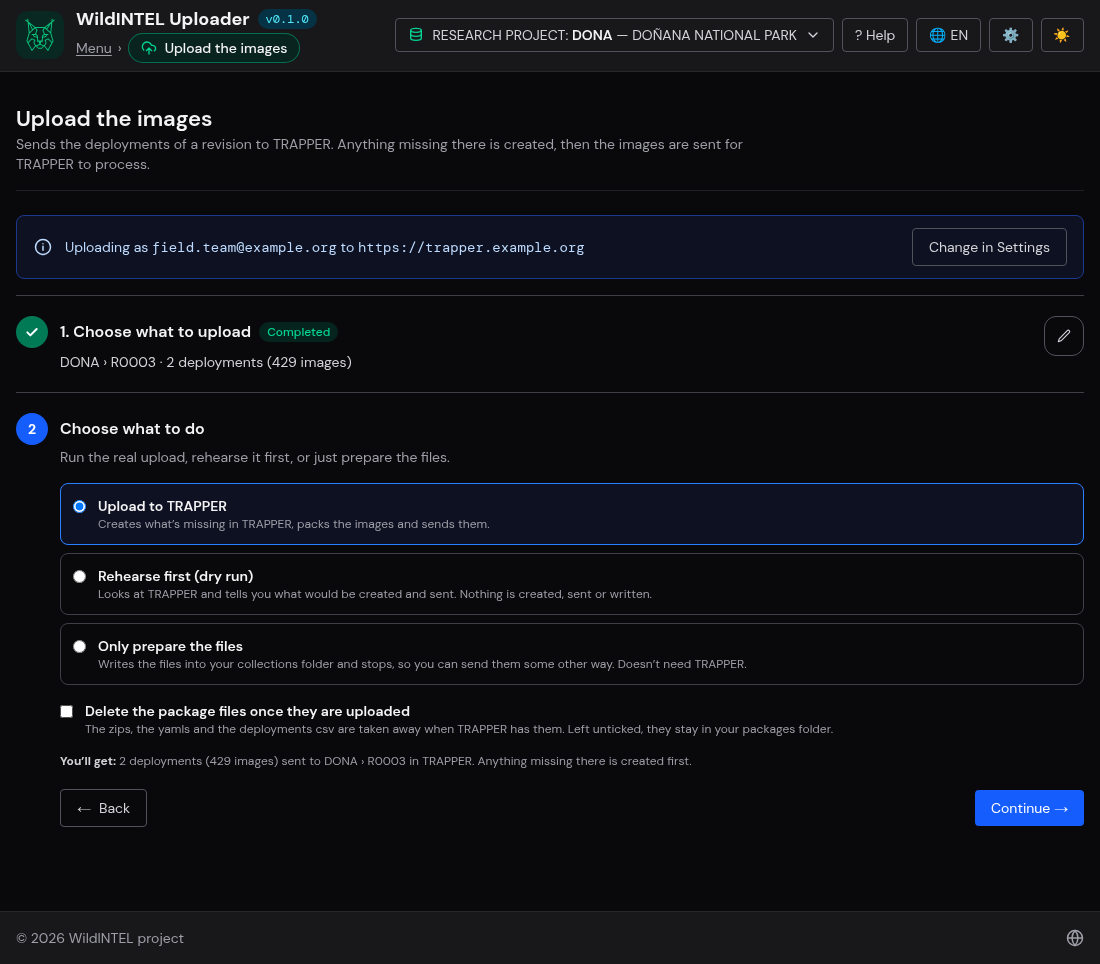
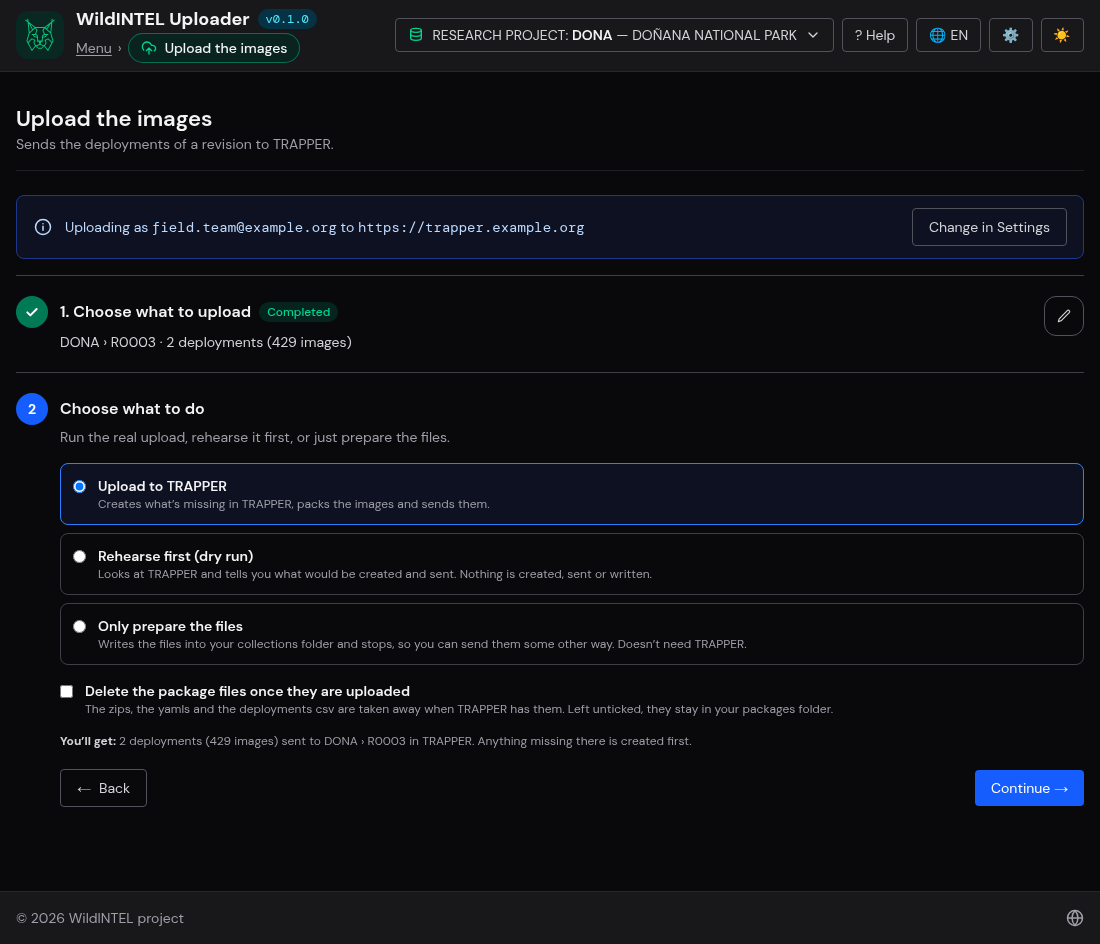
The subtitles of the longest screens and steps are one short sentence that says what the step does, and what they said besides goes to the hint of the field

diff --git a/frontend/src/pages/SetupWizardPage.tsx b/frontend/src/pages/SetupWizardPage.tsx
@@ -272,7 +272,7 @@ export default function SetupWizardPage({ onBack, onMainMenu, onRegisterVisit }:
     <div className={PAGE_CLASS}>
       <datalist id="setup-zones">{ZONES.map((z) => <option key={z} value={z} />)}</datalist>
       <PageHeader icon={UTIL_ICONS.setup} title="Initial setup" parent="Utilities" onParent={onBack}
-        description="Set up a research project and say where WildINTEL Uploader keeps what it makes. The trappers, roles, locations, cameras and SD cards are optional: they can be created later, from the field files or in Settings." />
+        description="Create your first research project and choose where your data is kept. The rest is optional." />
 
       <WizardStep n={1} title="The research project" required status={status(1)} canEdit={canEdit} sealed={step === 9} onEdit={() => edit(1)}
                   summary={<><span className="font-mono">{code}</span> — {name.trim()}</>} description="A short acronym (it also names its folder, for example DONA_24) and its full name. Everything else can be filled in later in Settings › Entities.">
@@ -300,7 +300,7 @@ export default function SetupWizardPage({ onBack, onMainMenu, onRegisterVisit }:
 
       {folderStep && (
       <WizardStep n={2} title="The data folder" required status={status(2)} canEdit={canEdit} sealed={step === 9} onEdit={() => edit(2)}
-                  summary={<span className="font-mono">{chosenDir}</span>} description="Where WildINTEL Uploader keeps everything it makes: the collections, the reports and the packages. You can keep the one it has, or choose another, for example on another disk.">
+                  summary={<span className="font-mono">{chosenDir}</span>} description="Where WildINTEL Uploader keeps what it makes. Keep the proposed folder or choose another.">
         {step === 2 && (
           <div className="space-y-3">
             <label className={labelClass} htmlFor="setup-data-dir">Data folder</label>
@@ -322,7 +322,7 @@ export default function SetupWizardPage({ onBack, onMainMenu, onRegisterVisit }:
       </WizardStep>
       )}
 
-      <WizardStep n={num(3)} title="The trappers" optional="Optional · From visits CSV or Settings" status={status(3)} skipped={trappers.length === 0} canEdit={canEdit} sealed={step === 9} onEdit={() => edit(3)} summary={summary(trappers.map((t) => t.name), 'trappers')} description="The trappers who go to the field. Add them now, load them from a CSV, or skip this step: they are created from the field files when the visits are loaded. If you add them here, write their full names exactly as the field files do.">
+      <WizardStep n={num(3)} title="The trappers" optional="Optional · From visits CSV or Settings" status={status(3)} skipped={trappers.length === 0} canEdit={canEdit} sealed={step === 9} onEdit={() => edit(3)} summary={summary(trappers.map((t) => t.name), 'trappers')} description="The trappers who go to the field, written as in the field files. Add them now, or skip: they are created when you load the visits.">
         {step === 3 && (
           <AddList noun="trapper" added={chips(trappers, (t) => t.name)} onRemove={(k) => setTrappers((l) => l.filter((t) => t.name !== k))} onContinue={next} onSkip={next}
             fields={[{ name: 'username', label: 'Username', required: true, hint: 'Short, with no spaces, for example ana.perez. It is how WildINTEL Uploader and TRAPPER know the trapper.' }, { name: 'name', label: 'Full name', required: true, hint: 'As it is written in the field form, for example Ana Pérez.' }, { name: 'affiliation', label: 'Affiliation' }, { name: 'email', label: 'Email' }]}
@@ -346,10 +346,10 @@ export default function SetupWizardPage({ onBack, onMainMenu, onRegisterVisit }:
           ))}
       </WizardStep>
 
-      <WizardStep n={num(5)} title="The locations" optional="Optional · From visits CSV or Settings" status={status(5)} skipped={sites.length === 0} canEdit={canEdit} sealed={step === 9} onEdit={() => edit(5)} summary={summary(sites.map((x) => x.id), 'sites')} description="The places where the cameras are put up: an id, the coordinates and the timezone. Skip this step if they come from TRAPPER or from the field files. If you add them here, write their ids exactly as the field files do (DONA_0012), or they will be taken as new ones.">
+      <WizardStep n={num(5)} title="The locations" optional="Optional · From visits CSV or Settings" status={status(5)} skipped={sites.length === 0} canEdit={canEdit} sealed={step === 9} onEdit={() => edit(5)} summary={summary(sites.map((x) => x.id), 'sites')} description="The places where the cameras are put up, with the ids of the field files. Add them now, or skip: they come from TRAPPER or are created when you load the visits.">
         {step === 5 && (
           <AddList noun="location" added={chips(sites, (x) => x.id)} onRemove={(k) => setSites((l) => l.filter((x) => x.id !== k))} onContinue={next} onSkip={next}
-            fields={[{ name: 'id', label: 'Location id', required: true }, { name: 'name', label: 'Name' }, { name: 'latitude', label: 'Latitude', required: true, type: 'number', hint: 'Decimal degrees, −90 to 90.' }, { name: 'longitude', label: 'Longitude', required: true, type: 'number', hint: 'Decimal degrees, −180 to 180.' }, { name: 'timezone', label: 'Timezone', type: 'zone', initial: 'UTC', required: true }, { name: 'ignore_dst', label: 'The cameras here ignore summer time', type: 'check', hint: 'On if the camera clocks are not changed in summer.', off: (v) => (isUtcZone(v.timezone) ? 'Summer time is not applied in UTC.' : null) }]}
+            fields={[{ name: 'id', label: 'Location id', required: true, hint: 'As the field files write it, for example DONA_0012: any other is taken as a new location.' }, { name: 'name', label: 'Name' }, { name: 'latitude', label: 'Latitude', required: true, type: 'number', hint: 'Decimal degrees, −90 to 90.' }, { name: 'longitude', label: 'Longitude', required: true, type: 'number', hint: 'Decimal degrees, −180 to 180.' }, { name: 'timezone', label: 'Timezone', type: 'zone', initial: 'UTC', required: true }, { name: 'ignore_dst', label: 'The cameras here ignore summer time', type: 'check', hint: 'On if the camera clocks are not changed in summer.', off: (v) => (isUtcZone(v.timezone) ? 'Summer time is not applied in UTC.' : null) }]}
             onAdd={(v) => {
               const latitude = Number(v.latitude), longitude = Number(v.longitude)
               if (!(latitude >= -90 && latitude <= 90) || !(longitude >= -180 && longitude <= 180)) throw new Error('The coordinates must lie within −90 to 90 and −180 to 180.')
@@ -359,10 +359,10 @@ export default function SetupWizardPage({ onBack, onMainMenu, onRegisterVisit }:
         )}
       </WizardStep>
 
-      <WizardStep n={num(6)} title="The cameras" optional="Optional · From visits CSV or Settings" status={status(6)} skipped={cameras.length === 0} canEdit={canEdit} sealed={step === 9} onEdit={() => edit(6)} summary={summary(cameras.map((c) => c.label), 'cameras')} description="Each camera by the name it has in the field, with its serial number and model if you know them. Skip this step to create them from the field files. If you add them here, write their names exactly as the field files do.">
+      <WizardStep n={num(6)} title="The cameras" optional="Optional · From visits CSV or Settings" status={status(6)} skipped={cameras.length === 0} canEdit={canEdit} sealed={step === 9} onEdit={() => edit(6)} summary={summary(cameras.map((c) => c.label), 'cameras')} description="The cameras, with the names they have in the field. Add them now, or skip: they are created when you load the visits.">
         {step === 6 && (
           <AddList noun="camera" added={chips(cameras, (c) => c.label)} onRemove={(k) => setCameras((l) => l.filter((c) => c.label !== k))} onContinue={next} onSkip={next}
-            fields={[{ name: 'label', label: 'Label', required: true }, { name: 'camera_id', label: 'Serial number' }, { name: 'camera_model', label: 'Model' }]}
+            fields={[{ name: 'label', label: 'Label', required: true, hint: 'As the field files write it.' }, { name: 'camera_id', label: 'Serial number' }, { name: 'camera_model', label: 'Model' }]}
             onAdd={(v) => {
               if (cameras.some((c) => lower(c.label) === lower(v.label))) throw new Error(`There is a camera called ${v.label.trim()} already.`)
               setCameras((l) => [...l, { label: v.label.trim(), a: v.camera_id.trim(), b: v.camera_model.trim() }])
@@ -370,10 +370,10 @@ export default function SetupWizardPage({ onBack, onMainMenu, onRegisterVisit }:
         )}
       </WizardStep>
 
-      <WizardStep n={num(7)} title="The SD cards" optional="Optional · From visits CSV or Settings" status={status(7)} skipped={cards.length === 0} canEdit={canEdit} sealed={step === 9} onEdit={() => edit(7)} summary={summary(cards.map((c) => c.label), 'SD cards')} description="Each card by the name written on it (7, 7b, 10B). Brand and capacity are optional. Skip this step to create them from the field files. If you add them here, write their names exactly as the field files do: 7b and 7B are two cards.">
+      <WizardStep n={num(7)} title="The SD cards" optional="Optional · From visits CSV or Settings" status={status(7)} skipped={cards.length === 0} canEdit={canEdit} sealed={step === 9} onEdit={() => edit(7)} summary={summary(cards.map((c) => c.label), 'SD cards')} description="The SD cards, with the name written on each. Add them now, or skip: they are created when you load the visits.">
         {step === 7 && (
           <AddList noun="SD card" added={chips(cards, (c) => c.label)} onRemove={(k) => setCards((l) => l.filter((c) => c.label !== k))} onContinue={next} continueLabel="Review" onSkip={next}
-            fields={[{ name: 'label', label: 'Label', required: true }, { name: 'brand', label: 'Brand' }, { name: 'capacity', label: 'Capacity', hint: 'For example 64 GB.' }]}
+            fields={[{ name: 'label', label: 'Label', required: true, hint: 'As it is written on the card, for example 7b: 7b and 7B are two cards.' }, { name: 'brand', label: 'Brand' }, { name: 'capacity', label: 'Capacity', hint: 'For example 64 GB.' }]}
             onAdd={(v) => {
               if (cards.some((c) => lower(c.label) === lower(v.label))) throw new Error(`There is an SD card called ${v.label.trim()} already.`)
               setCards((l) => [...l, { label: v.label.trim(), a: v.brand.trim(), b: v.capacity.trim() }])

diff --git a/frontend/src/pages/SettingsPage.tsx b/frontend/src/pages/SettingsPage.tsx
@@ -2431,7 +2431,7 @@ export default function SettingsPage({ onClose, initialSection, initialProject, 
                 })}
               </div>
             </GroupCard>
-            <GroupCard title="Default research project" description="Filled in for you whenever a research project is asked for, such as when a visit is registered or a deployment imported. You can still change it each time.">
+            <GroupCard title="Default research project" description="Filled in whenever a research project is asked for. You can change it each time.">
               <label className="sr-only" htmlFor="default-research-project">Default research project</label>
               <Combobox
                 id="default-research-project" value={draft.defaultResearchProject} onChange={(v) => set('defaultResearchProject', v)}
@@ -2440,7 +2440,7 @@ export default function SettingsPage({ onClose, initialSection, initialProject, 
               />
             </GroupCard>
             <ToggleCard title="Welcome page" checked={draft.showWelcome} onChange={(v) => set('showWelcome', v)}
-                        description="Shown when WildINTEL Uploader opens, to say what it does. Turn it off to open straight on the menu — the tick of the welcome page does the same." />
+                        description="Shown when WildINTEL Uploader opens. Turn it off to open on the menu." />
             <GroupCard title="Parallel work" description="How many images are checked or prepared at the same time. More at once finishes sooner, up to what this computer can do.">
               <div className="max-w-xs"><NumberBox label="Images at once" value={draft.workers} limits={WORKERS} onChange={(v) => set('workers', v)} unit="at once" /></div>
               <p className={hintClass}>
@@ -2448,7 +2448,7 @@ export default function SettingsPage({ onClose, initialSection, initialProject, 
                 with a hard disk or a network drive, more may not help, as the files are read slower than they are worked on.
               </p>
             </GroupCard>
-            <GroupCard title="Activity log" description="WildINTEL Uploader writes down what it does, so a problem can be tracked down. Raise the detail only while you look for one, then lower it again. It applies right away.">
+            <GroupCard title="Activity log" description="Writes down what WildINTEL Uploader does, to find problems. It applies right away.">
               <div role="radiogroup" aria-label="Level" className="grid grid-cols-1 sm:grid-cols-2 gap-3">
                 {LOG_LEVELS.map((l) => (
                   <button key={l.value} type="button" role="radio" aria-checked={draft.logLevel === l.value} onClick={() => set('logLevel', l.value)}
@@ -2560,7 +2560,7 @@ export default function SettingsPage({ onClose, initialSection, initialProject, 
                 )}
               </div>
             </CardBlock>
-            <CardBlock title="Uploading deployments" description="The images of a deployment are sent in several packages, none bigger than this. Smaller packages are quicker to retry if the connection drops.">
+            <CardBlock title="Uploading deployments" description="Packages of at most this size. Smaller ones are quicker to retry if the connection drops.">
               <div className="max-w-60"><PlainField label="Largest package"><NumberBox label="Largest package" value={draft.maxZipMb} limits={MAX_ZIP_MB} onChange={(v) => set('maxZipMb', v)} unit="MB" /></PlainField></div>
             </CardBlock>
           </SettingsCard>
@@ -2635,7 +2635,7 @@ export default function SettingsPage({ onClose, initialSection, initialProject, 
             {visitSource === 'epicollect' && (
               <div className="space-y-5">
               <ToggleCard title="Use the Epicollect5 connection" checked={draft.epicollectEnabled} onChange={(v) => set('epicollectEnabled', v)}
-                              description="Lets WildINTEL Uploader download the entries of an Epicollect5 project by itself, instead of you downloading the CSV (in Register the visits › Custom CSV), and read the details of a deployment when it is imported." />
+                              description="Downloads the entries of an Epicollect5 project, so you do not have to download the CSV." />
               <SettingsCard>
                 <CardBlock title="Project" description="The Epicollect5 project the information is imported from.">
                   <PlainField label="Project name in its web address" hint={`It is the last part of the project's address: five.epicollect.net/project/${draft.epicollectSlug.trim() || 'my-project'}`}>

diff --git a/frontend/src/pages/VisitsPage.tsx b/frontend/src/pages/VisitsPage.tsx
@@ -1169,7 +1169,7 @@ export default function VisitsPage({ onBack, onMainMenu, onOpenSettings, setting
 
   return (
     <div className={PAGE_CLASS}>
-      <PageHeader icon={<path d="M12 20h9M16.5 3.5a2.1 2.1 0 0 1 3 3L7 19l-4 1 1-4L16.5 3.5z" />} title="Register the visits" description="Bring in the visits to the camera traps. From them WildINTEL Uploader knows which images belong to which camera, location and period." parent="Menu" onParent={onBack} />
+      <PageHeader icon={<path d="M12 20h9M16.5 3.5a2.1 2.1 0 0 1 3 3L7 19l-4 1 1-4L16.5 3.5z" />} title="Register the visits" description="Register the visits to the camera traps, by hand or from a file." parent="Menu" onParent={onBack} />
       <WizardStep
         n={1} title="Where do the visits come from?" status={justAdded ? 'locked' : source ? 'done' : 'open'} sealed={csvSaved !== null} canEdit={!justAdded && csvSaved === null} onEdit={() => setSource(null)} lockedSummary
         description="Load them from a file, or enter them one by one."
@@ -1665,7 +1665,7 @@ export default function VisitsPage({ onBack, onMainMenu, onOpenSettings, setting
           {!defaultProject && (
             <WizardStep
               n={2} title="Which research project?" status={project ? 'done' : 'open'} sealed={csvSaved !== null} canEdit={csvSaved === null} onEdit={() => { setProject(undefined); forgetCsv(); setCsvName(null) }}
-              description="The research project the visits belong to. The locations in the file must be locations of this project, or be added when the file is loaded."
+              description="The research project the visits belong to."
               summary={project?.acronym}
             >
               <ResearchProjectPicker value={project?.acronym ?? ''} onSelect={(picked) => { setProject(picked); forgetCsv(); setCsvName(null) }} />
@@ -1766,7 +1766,7 @@ export default function VisitsPage({ onBack, onMainMenu, onOpenSettings, setting
           {source === 'csv' && (
             <WizardStep
               n={defaultProject ? 3 : 4} title="Match the columns" status={!csvColumns || !fileConfirmed ? 'locked' : csvResult ? 'done' : 'open'} sealed={csvSaved !== null} summary={csvSaved !== null ? 'The columns of the file' : undefined} canEdit={csvSaved === null} onEdit={() => { setCsvResult(null); setCsvSaved(null) }}
-              description="For each field of a visit, choose the column of the file that has it. Columns with the same name are already chosen. Leave a field empty if the file does not have it."
+              description="Choose the column of your file for each field of a visit. The ones with the same name are already chosen."
             >
               {csvColumns && (
                 <>

diff --git a/frontend/src/pages/BackupPage.tsx b/frontend/src/pages/BackupPage.tsx
@@ -217,7 +217,7 @@ export default function BackupPage({ onBack, settingsOpen }: Props) {
   return (
     <div className={PAGE_CLASS}>
       <PageHeader icon={UTIL_ICONS.backup} title="Backup and restore" parent="Utilities" onParent={onBack}
-        description="Keep the settings and the data of a research project — its visits and the deployments you choose, with or without their images — in a file, and restore them from it." />
+        description="Keep a research project in a file, and restore it from there." />
 
       <WizardStep n={1} title="What do you want to do?" status={mode ? 'done' : 'open'} canEdit={!running} onEdit={startOver}
                   summary={mode === 'backup' ? 'Make a backup' : mode === 'restore' ? 'Restore a backup' : undefined} description="Make a copy of what you have, or put back what a copy holds.">

diff --git a/frontend/src/pages/TimeFixPage.tsx b/frontend/src/pages/TimeFixPage.tsx
@@ -198,7 +198,7 @@ export default function TimeFixPage({ initial, onBack, parent = 'Utilities' }: {
   return (
     <div className={`${PAGE_CLASS} space-y-6`}>
       <PageHeader icon={UTIL_ICONS.timefix} title="Check and fix dates and times" parent={parent} onParent={onBack}
-        description="For the images of a card copied to a folder whose camera clock went wrong: see where the time jumps, shift the dates and remove the images that can’t be trusted."
+        description="Fix the dates of images whose camera clock went wrong."
         actions={<HelpButton label="Help" expanded={helpOpen} onClick={() => setHelpOpen(true)} />} />
 
       <WizardStep n={1} title="Choose the folder and the visit" status={timeline ? 'done' : 'open'} canEdit={!busy} onEdit={() => setTimeline(null)}

diff --git a/frontend/src/pages/UploadDeploymentPage.tsx b/frontend/src/pages/UploadDeploymentPage.tsx
@@ -362,7 +362,7 @@ export default function UploadDeploymentPage({ initial, onOpenSettings, onBack }
 
   return (
     <div className={PAGE_CLASS}>
-      <PageHeader icon={MENU_ICONS.upload} title="Upload the images" description="Sends the deployments of a revision to TRAPPER. Anything missing there is created, then the images are sent for TRAPPER to process."
+      <PageHeader icon={MENU_ICONS.upload} title="Upload the images" description="Sends the deployments of a revision to TRAPPER."
         parent="Menu" onParent={onBack} />
 
       {trapper === null ? (

diff --git a/CHANGELOG.md b/CHANGELOG.md
@@ -12,6 +12,7 @@ adheres to [Semantic Versioning](https://semver.org/spec/v2.0.0.html).
 
 ### Added
 - **One name per thing** (#174): the screens say *location* — not *site* — and *trapper* — not *person* — and the manual says *revision* where it said *field trip*. The glossary says a location is sometimes also called a site and a revision a field trip. The messages of the checks of the visits, the manual and the diagram of the states of a location say *location* too, and the visit that starts a location is *Location start* (the files that say *Site start* are still read). *New site* and *Inactive site*, the answers of the form of Epicollect5, stay as the form says them.
+- **Plain subtitles** (#174): the subtitles of the longest screens and steps — the initial setup, the backup, the dates fix, the upload, the columns of a file and several settings — are one short sentence that says what the step does, and what they said besides goes to the hint of the field.
 - **The three applications** (#174): the texts name the application — *WildINTEL Uploader*, *Epicollect5* or *TRAPPER* — instead of saying *the app*, and say where a research project or a location is when it is in TRAPPER and in WildINTEL Uploader (the steps of the upload, the links to open them, the sync page and the origin of an import).
 - **Glossary** (#174): a **Glossary** button beside the Quick guide, in the title of the menu, opens a panel with what each word of the work means, in alphabetical order. The words are in one list (`glossary.ts`), for any "?" beside a term that comes next.
 - **Register the visits** (#172): **Download a template** beside the file area of the *Custom CSV* — a CSV with the columns of a visit and twenty example visits in five revisions, with the visits that say several actions (`Stolen + Installation`, `Revision + Desinstallation + Archive`…), whose columns are matched by themselves. It is the `template.csv` example of `examples/visits_example/custom_csv/wicp_02`, and a test keeps both the same and checks that it is read with no problem.
